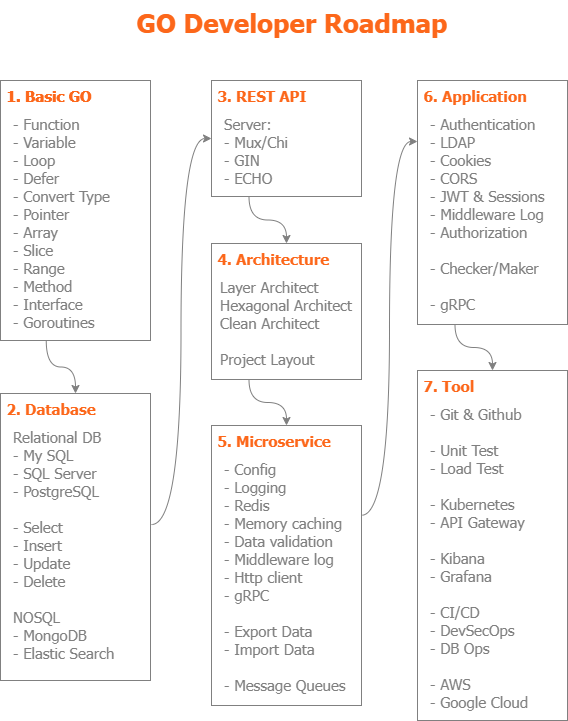
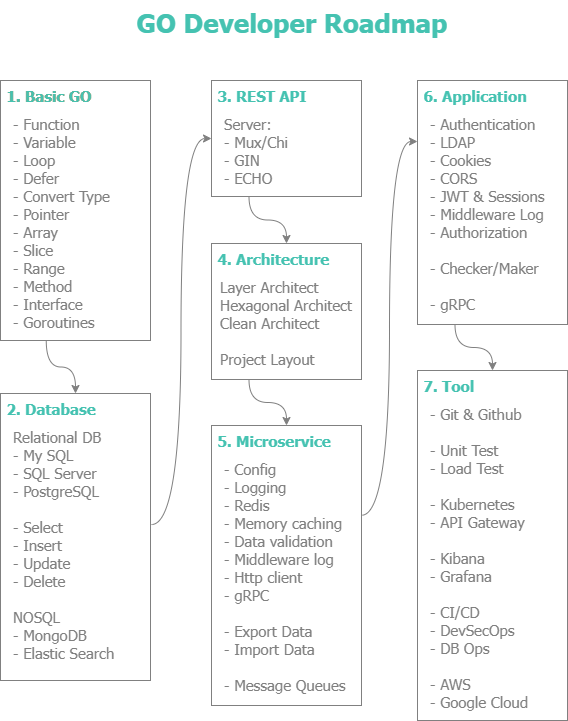
Change to dark green

diff --git a/README.md b/README.md
@@ -1,3 +1,3 @@
-# go-developer-roadmap
+# GO Developer Roadmap
 
 ![go developer roadmap](./roadmap.png)
